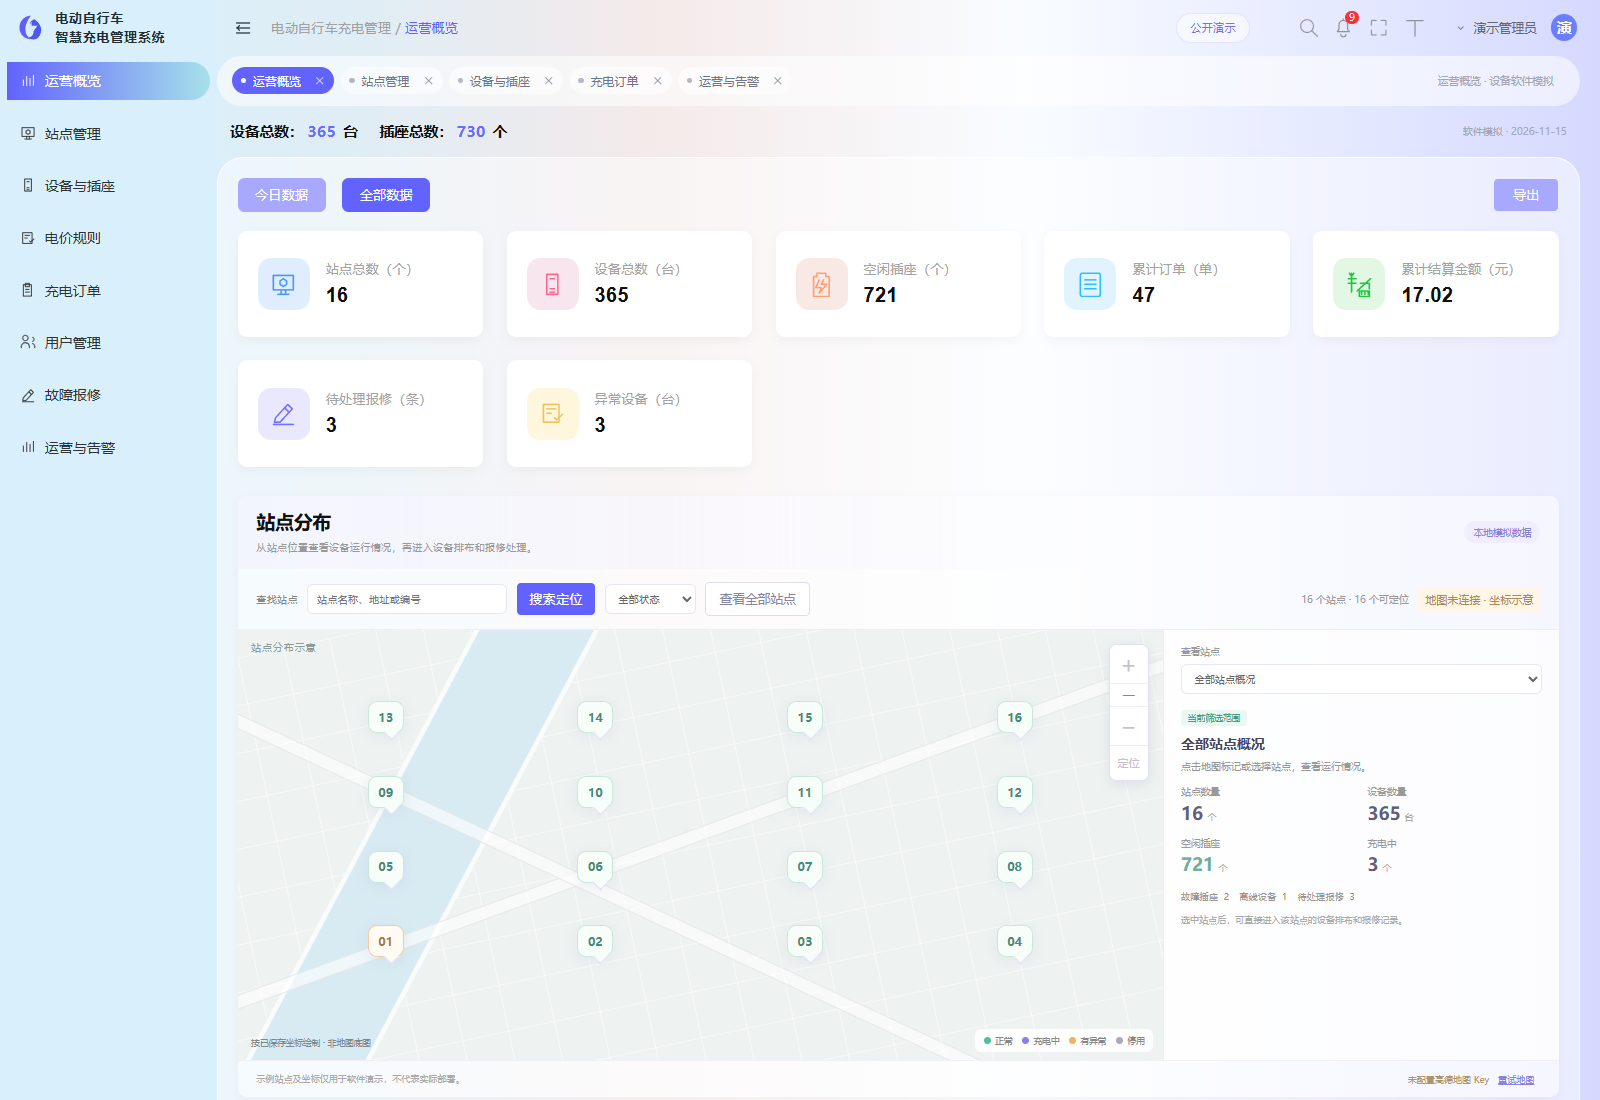
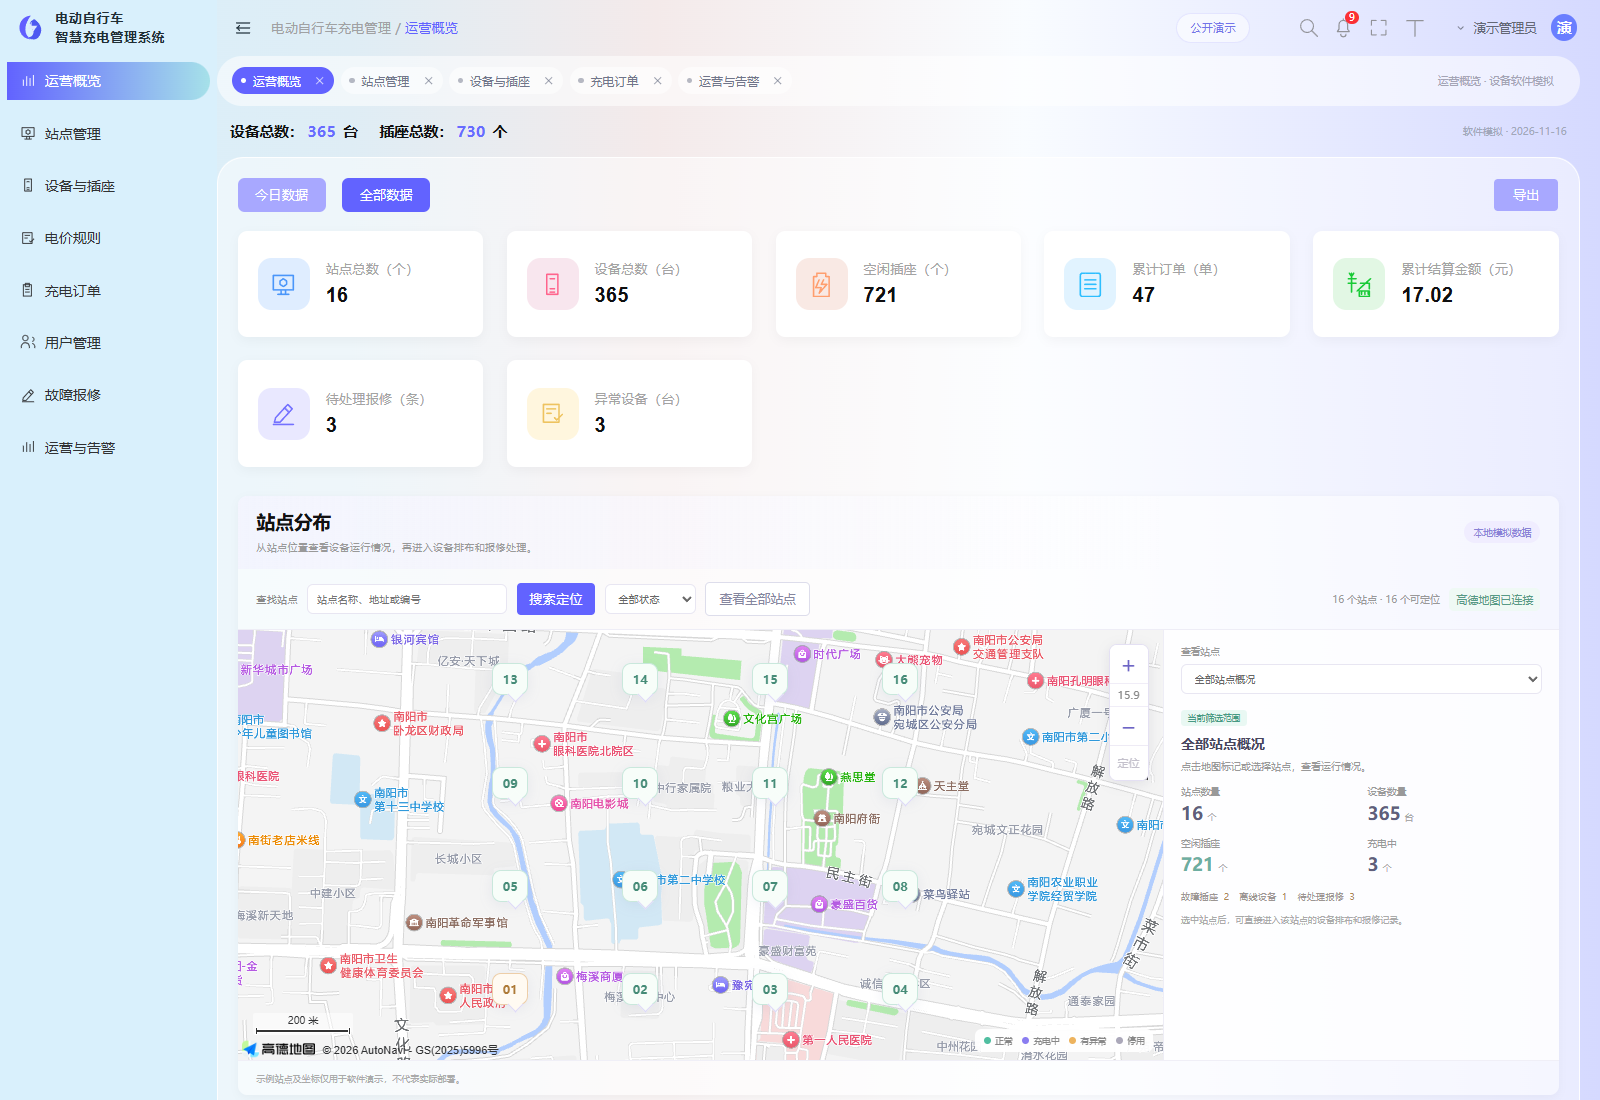
docs: recapture station dashboard with AMap basemap

diff --git a/README.md b/README.md
@@ -40,7 +40,7 @@
 
 | 能量核心登录 · 原版 logo | 运营概览 · 站点分布与页面标签 |
 | --- | --- |
-| ![管理端能量核心登录与原版标志](docs/screenshots/showcase-admin-login.png) | ![运营概览、站点坐标示意与多页面标签](docs/screenshots/showcase-admin-dashboard.png) |
+| ![管理端能量核心登录与原版标志](docs/screenshots/showcase-admin-login.png) | ![运营概览、高德地图站点分布与多页面标签](docs/screenshots/showcase-admin-dashboard.png) |
 | **设备排布 · 按站点与排筛选** | **设备详情 · A/B 独立插座** |
 | ![管理端设备排布](docs/screenshots/showcase-admin-layout.png) | ![设备详情与独立插座状态](docs/screenshots/showcase-admin-socket.png) |
 | **充电订单 · 状态与账单查询** | **运营分析 · 告警工作台** |

diff --git a/docs/showcase.md b/docs/showcase.md
@@ -9,7 +9,7 @@
 | 页面 | 展示内容 | 图片 |
 | --- | --- | --- |
 | 登录 | 能量核心、账号输入、密码显隐 | [登录截图](screenshots/showcase-admin-login.png) |
-| 运营概览 | 业务指标、站点分布、多页面标签 | [概览截图](screenshots/showcase-admin-dashboard.png) |
+| 运营概览 | 业务指标、高德地图站点分布、多页面标签 | [概览截图](screenshots/showcase-admin-dashboard.png) |
 | 设备排布 | 按站点筛选、多排设备、A/B 插座状态 | [排布截图](screenshots/showcase-admin-layout.png) |
 | 插座详情 | 设备信息、A/B 插座、充电操作 | [插座截图](screenshots/showcase-admin-socket.png) |
 | 订单管理 | 日期筛选、充电状态、支付状态、账单查询 | [订单截图](screenshots/showcase-admin-orders.png) |
